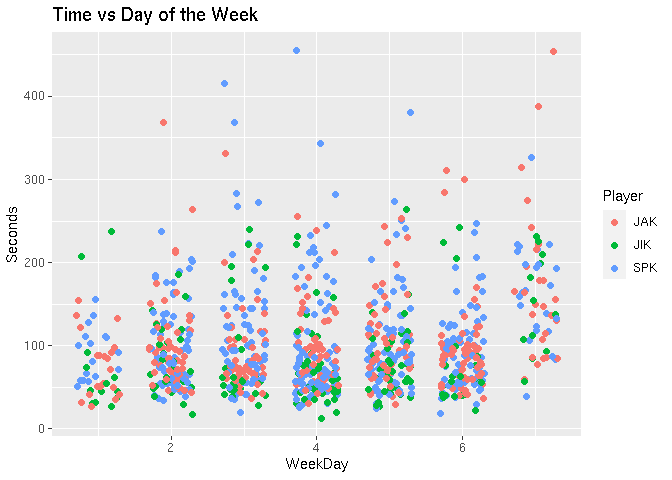
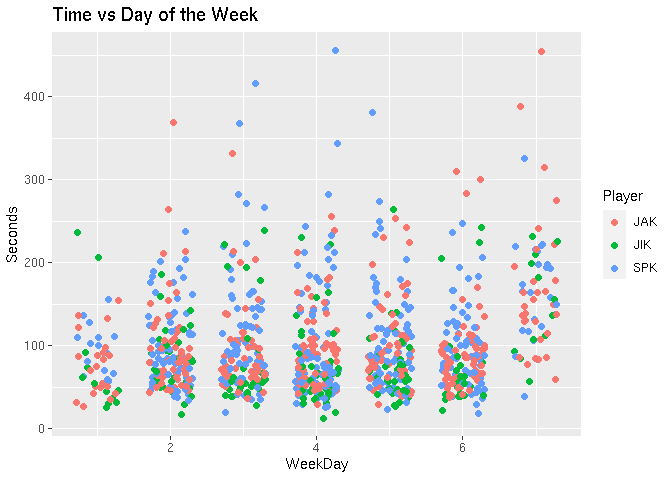
New analysis run with latest data.

diff --git a/analysis/nyt_mini_crossword.md b/analysis/nyt_mini_crossword.md
@@ -1,7 +1,7 @@
 ---
 title: "New York Time Mini Crossword"
 author: "Stephen Kaluzny"
-date: "12 November, 2020"
+date: "04 January, 2021"
 output:
   html_document:
     keep_md: true
@@ -167,7 +167,7 @@ d %>%
 
 ## Summary Statistics
 
-Current data set has 983 observations.
+Current data set has 1003 observations.
 
 
 ```r
@@ -184,12 +184,12 @@ d %>% group_by(Player) %>%
 ## # A tibble: 6 x 6
 ##   Player  Mean Median   Min   Max     N
 ##   <chr>  <dbl>  <dbl> <dbl> <dbl> <int>
-## 1 SKK     51     47      21    89     4
-## 2 AKK     55     55      55    55     1
-## 3 JIK     82.5   62      13   264   188
-## 4 SPK    106.    87      18   455   416
-## 5 JAK    104.    87.5    27   454   320
-## 6 BBK    117.   102      42   350    54
+## 1 SKK     51       47    21    89     4
+## 2 AKK     55       55    55    55     1
+## 3 JIK     82.5     62    13   264   188
+## 4 JAK    103.      87    27   454   339
+## 5 SPK    106.      87    18   455   417
+## 6 BBK    117.     102    42   350    54
 ```
 
 ## Subset the Data
@@ -204,7 +204,7 @@ d <- d %>%
   filter(Player %in% c("SPK", "JAK", "JIK"))
 ```
 
-Now have 924 observations.
+Now have 944 observations.
 
 ## Plots
 
@@ -307,13 +307,13 @@ sessionInfo()
 ```
 
 ```
-## R version 4.0.2 (2020-06-22)
+## R version 4.0.3 (2020-10-10)
 ## Platform: x86_64-pc-linux-gnu (64-bit)
 ## Running under: Ubuntu 20.04.1 LTS
 ## 
 ## Matrix products: default
-## BLAS:   /home/R/R-4.0.2/lib/R/lib/libRblas.so
-## LAPACK: /home/R/R-4.0.2/lib/R/lib/libRlapack.so
+## BLAS:   /home/R/R-4.0.3/lib/R/lib/libRblas.so
+## LAPACK: /home/R/R-4.0.3/lib/R/lib/libRlapack.so
 ## 
 ## locale:
 ##  [1] LC_CTYPE=en_US.UTF-8       LC_NUMERIC=C              
@@ -330,15 +330,15 @@ sessionInfo()
 ## [1] ggplot2_3.3.2 dplyr_1.0.2   tidyr_1.1.2   assertr_2.7  
 ## 
 ## loaded via a namespace (and not attached):
-##  [1] Rcpp_1.0.5       pillar_1.4.6     compiler_4.0.2   tools_4.0.2     
-##  [5] digest_0.6.25    lubridate_1.7.9  evaluate_0.14    lifecycle_0.2.0 
-##  [9] tibble_3.0.3     gtable_0.3.0     pkgconfig_2.0.3  rlang_0.4.7     
-## [13] cli_2.0.2        yaml_2.2.1       xfun_0.17        withr_2.2.0     
-## [17] stringr_1.4.0    knitr_1.29       generics_0.0.2   vctrs_0.3.4     
-## [21] hms_0.5.3        rprojroot_1.3-2  grid_4.0.2       tidyselect_1.1.0
-## [25] glue_1.4.2       here_0.1         R6_2.4.1         fansi_0.4.1     
-## [29] rmarkdown_2.3    farver_2.0.3     purrr_0.3.4      magrittr_1.5    
-## [33] scales_1.1.1     backports_1.1.10 ellipsis_0.3.1   htmltools_0.5.0 
-## [37] assertthat_0.2.1 colorspace_1.4-1 labeling_0.3     utf8_1.1.4      
-## [41] stringi_1.5.3    munsell_0.5.0    crayon_1.3.4
+##  [1] Rcpp_1.0.5        pillar_1.4.7      compiler_4.0.3    tools_4.0.3      
+##  [5] digest_0.6.27     lubridate_1.7.9.2 evaluate_0.14     lifecycle_0.2.0  
+##  [9] tibble_3.0.4      gtable_0.3.0      pkgconfig_2.0.3   rlang_0.4.9      
+## [13] cli_2.2.0         yaml_2.2.1        xfun_0.19         withr_2.3.0      
+## [17] stringr_1.4.0     knitr_1.30        generics_0.1.0    vctrs_0.3.6      
+## [21] hms_0.5.3         rprojroot_2.0.2   grid_4.0.3        tidyselect_1.1.0 
+## [25] glue_1.4.2        here_1.0.1        R6_2.5.0          fansi_0.4.1      
+## [29] rmarkdown_2.6     farver_2.0.3      purrr_0.3.4       magrittr_2.0.1   
+## [33] scales_1.1.1      ellipsis_0.3.1    htmltools_0.5.0   assertthat_0.2.1 
+## [37] colorspace_2.0-0  labeling_0.4.2    utf8_1.1.4        stringi_1.5.3    
+## [41] munsell_0.5.0     crayon_1.3.4
 ```
